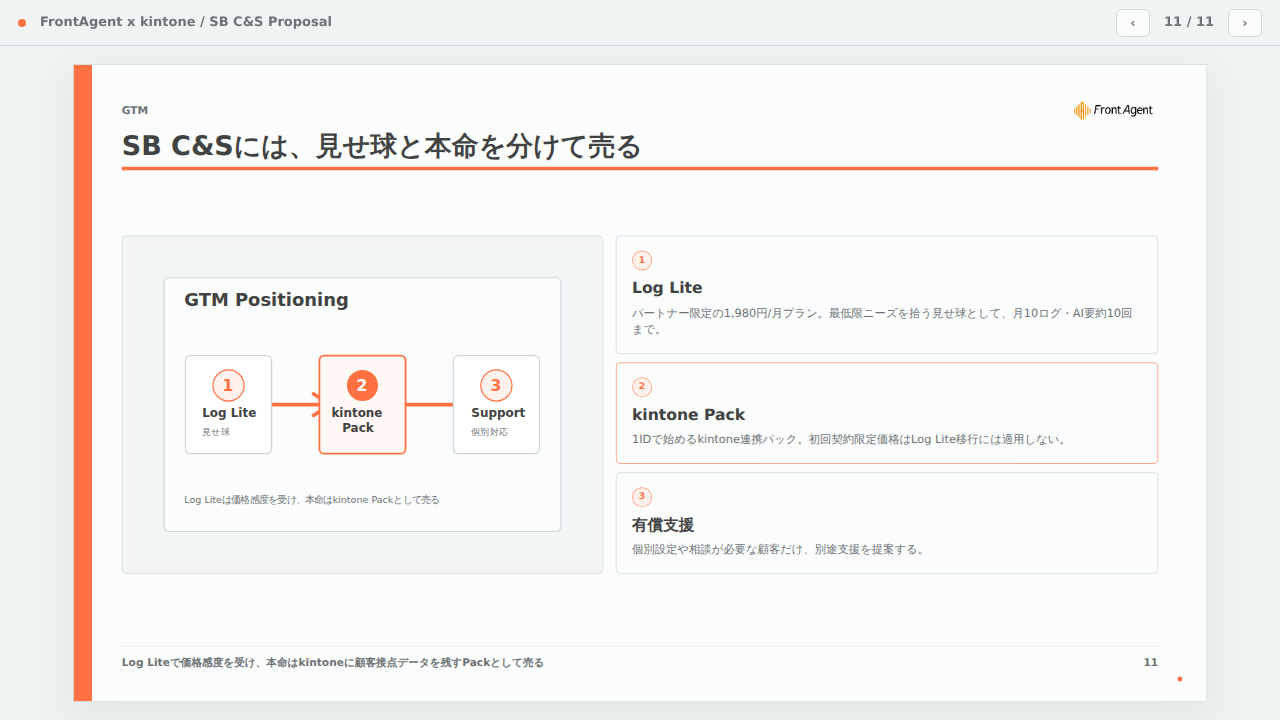
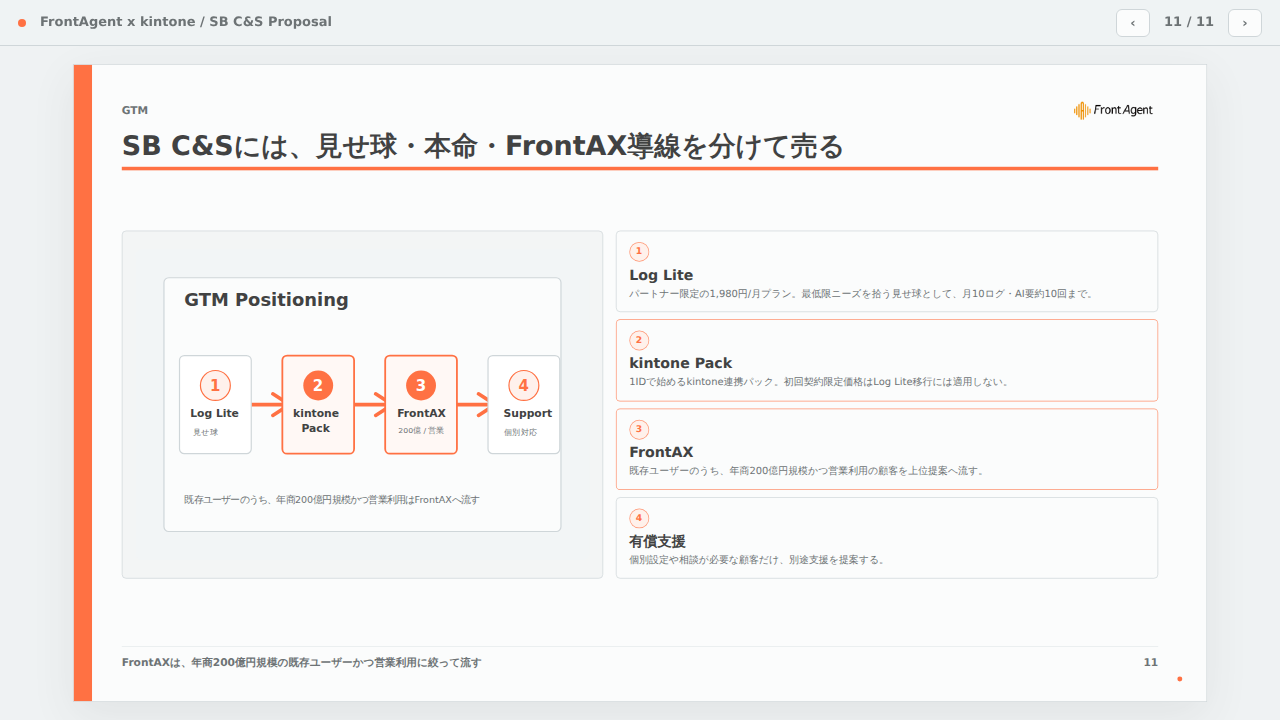
docs: add frontax expansion path

diff --git a/deck-system/decks/umee-sbcs-kintone-plan/index.html b/deck-system/decks/umee-sbcs-kintone-plan/index.html
@@ -444,6 +444,28 @@
         min-height: 0;
       }
 
+      .summary-stack.compact {
+        gap: 10px;
+      }
+
+      .summary-stack.compact .card {
+        padding: 15px 18px;
+      }
+
+      .summary-stack.compact .number {
+        margin-bottom: 6px;
+      }
+
+      .summary-stack.compact .card strong {
+        margin-bottom: 5px;
+        font-size: 20px;
+      }
+
+      .summary-stack.compact .card p {
+        font-size: 14px;
+        line-height: 1.38;
+      }
+
       .cap-stack {
         display: grid;
         gap: 12px;
@@ -1069,12 +1091,12 @@
           <img class="header-logo" src="assets/frontagent.png" alt="FrontAgent">
         </header>
         <div class="content">
-          <h2>SB C&Sには、見せ球と本命を分けて売る</h2>
+          <h2>SB C&Sには、見せ球・本命・FrontAX導線を分けて売る</h2>
           <div class="body-slot visual-led">
             <div class="image-frame contain">
-              <img src="assets/visuals/gtm-route.svg" alt="Log Liteを見せ球、kintone Packを本命、有償支援を別枠にする販売ルート">
+              <img src="assets/visuals/gtm-route.svg" alt="Log Liteを見せ球、kintone Packを本命、FrontAXを上位導線、有償支援を別枠にする販売ルート">
             </div>
-            <div class="summary-stack">
+            <div class="summary-stack compact">
               <article class="card">
                 <span class="number">1</span>
                 <strong>Log Lite</strong>
@@ -1085,8 +1107,13 @@
                 <strong>kintone Pack</strong>
                 <p>1IDで始めるkintone連携パック。初回契約限定価格はLog Lite移行には適用しない。</p>
               </article>
-              <article class="card">
+              <article class="card feature">
                 <span class="number">3</span>
+                <strong>FrontAX</strong>
+                <p>既存ユーザーのうち、年商200億円規模かつ営業利用の顧客を上位提案へ流す。</p>
+              </article>
+              <article class="card">
+                <span class="number">4</span>
                 <strong>有償支援</strong>
                 <p>個別設定や相談が必要な顧客だけ、別途支援を提案する。</p>
               </article>
@@ -1094,7 +1121,7 @@
           </div>
         </div>
         <footer class="slide-footer">
-          <span>Log Liteで価格感度を受け、本命はkintoneに顧客接点データを残すPackとして売る</span>
+          <span>FrontAXは、年商200億円規模の既存ユーザーかつ営業利用に絞って流す</span>
           <span>11</span>
         </footer>
       </section>

diff --git a/deck-system/decks/umee-sbcs-kintone-plan/brief.md b/deck-system/decks/umee-sbcs-kintone-plan/brief.md
@@ -15,6 +15,7 @@ SB C&S向けに、FrontAgent x kintone の販売プランを提案する。
 - SB C&S向けに、kintone利用企業へ売りやすい商品階層として提示する
 - Log Liteとkintone Packの価格、利用上限、支援範囲を説明する
 - Log Liteを最低限ニーズの受け皿兼価格アンカー、kintone Packを本命として見せる
+- 既存ユーザーのうち、年商200億円規模かつ営業利用の顧客はFrontAXへの上位導線として扱う
 
 ## Source
 
@@ -44,4 +45,5 @@ SB C&S向けに、FrontAgent x kintone の販売プランを提案する。
 - kintone Packの初回契約限定価格は、初回のkintone Pack契約時のみ適用する
 - Log Liteからkintone Packへ移行するユーザーには、初回契約限定価格を適用しない
 - kintone Packの標準機能は、録音、文字起こし、AI要約、kintone活動履歴登録、レコード紐付け、チーム内データ確認とする
+- FrontAXはkintone Packには含めず、既存ユーザーのうち年商200億円規模かつ営業利用の顧客に限って上位提案へ流す
 - 法務条文・保証・約款論点は本資料の対象外

diff --git a/deck-system/decks/umee-sbcs-kintone-plan/slide-plan.md b/deck-system/decks/umee-sbcs-kintone-plan/slide-plan.md
@@ -12,4 +12,4 @@
 | P08 | ID Pricing | Table + Visual | 1IDから始め、2ID目以降も同じ単価で積み上げる | 1ID / 3ID / 5ID / 10IDの価格例 | Price ladder visual + calculation table |
 | P09 | Competitive Comparison | Table | 比較される相手は、3カテゴリに分かれる | kintone本体 / PrintCreator・Smart at AI / Notta・Rimo・AI議事録取れる君・LINE WORKS AiNote | Competitor positioning table |
 | P10 | Support Boundary | Table | 標準機能と個別支援を分け、本体価格を安く見せる | 標準機能 / 標準サポート / 有償支援 / 対象外 | Support boundary table |
-| P11 | GTM | Visual + Cards | SB C&Sには、見せ球と本命を分けて売る | Log Liteは価格アンカー / kintone Packが本命 / 有償支援は別枠 | GTM positioning visual + cards |
+| P11 | GTM | Visual + Cards | SB C&Sには、見せ球・本命・FrontAX導線を分けて売る | Log Liteは価格アンカー / kintone Packが本命 / 年商200億円規模かつ営業利用の既存ユーザーはFrontAXへ / 有償支援は別枠 | GTM positioning visual + cards |
